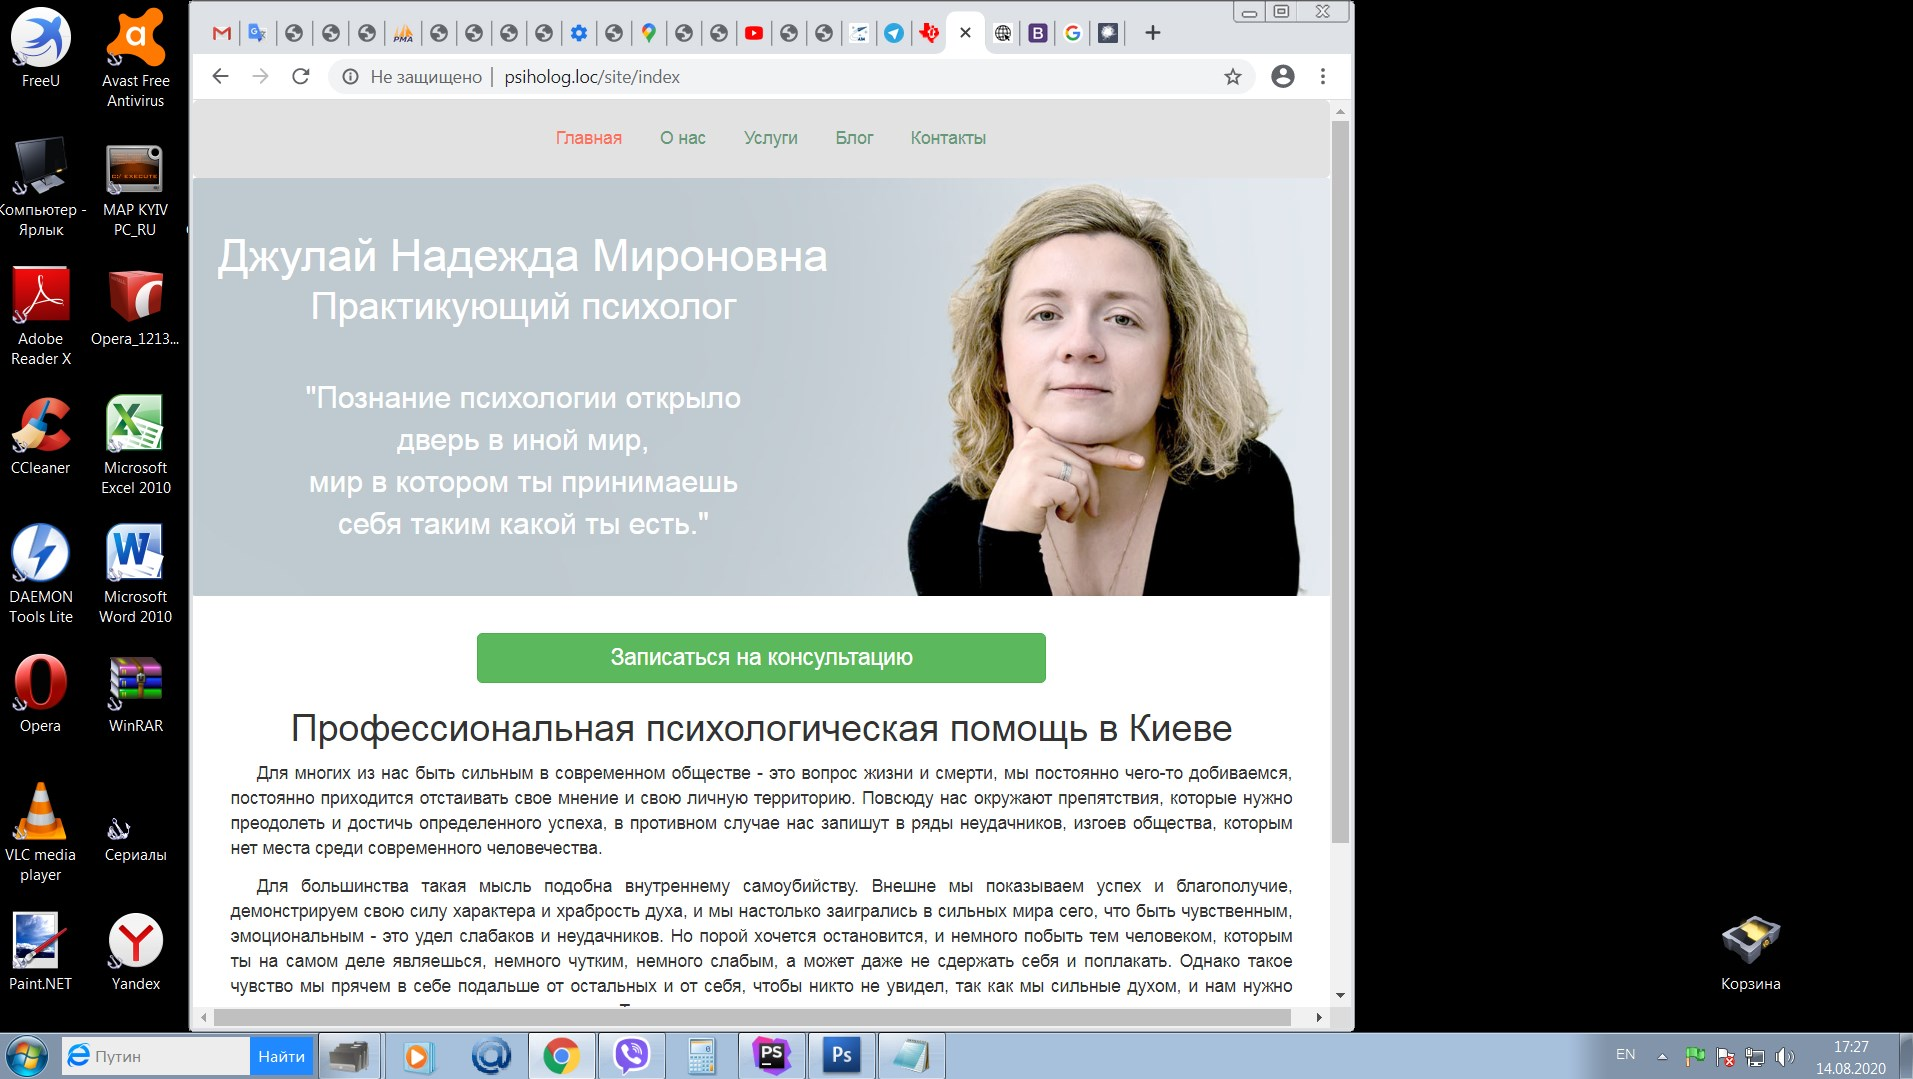
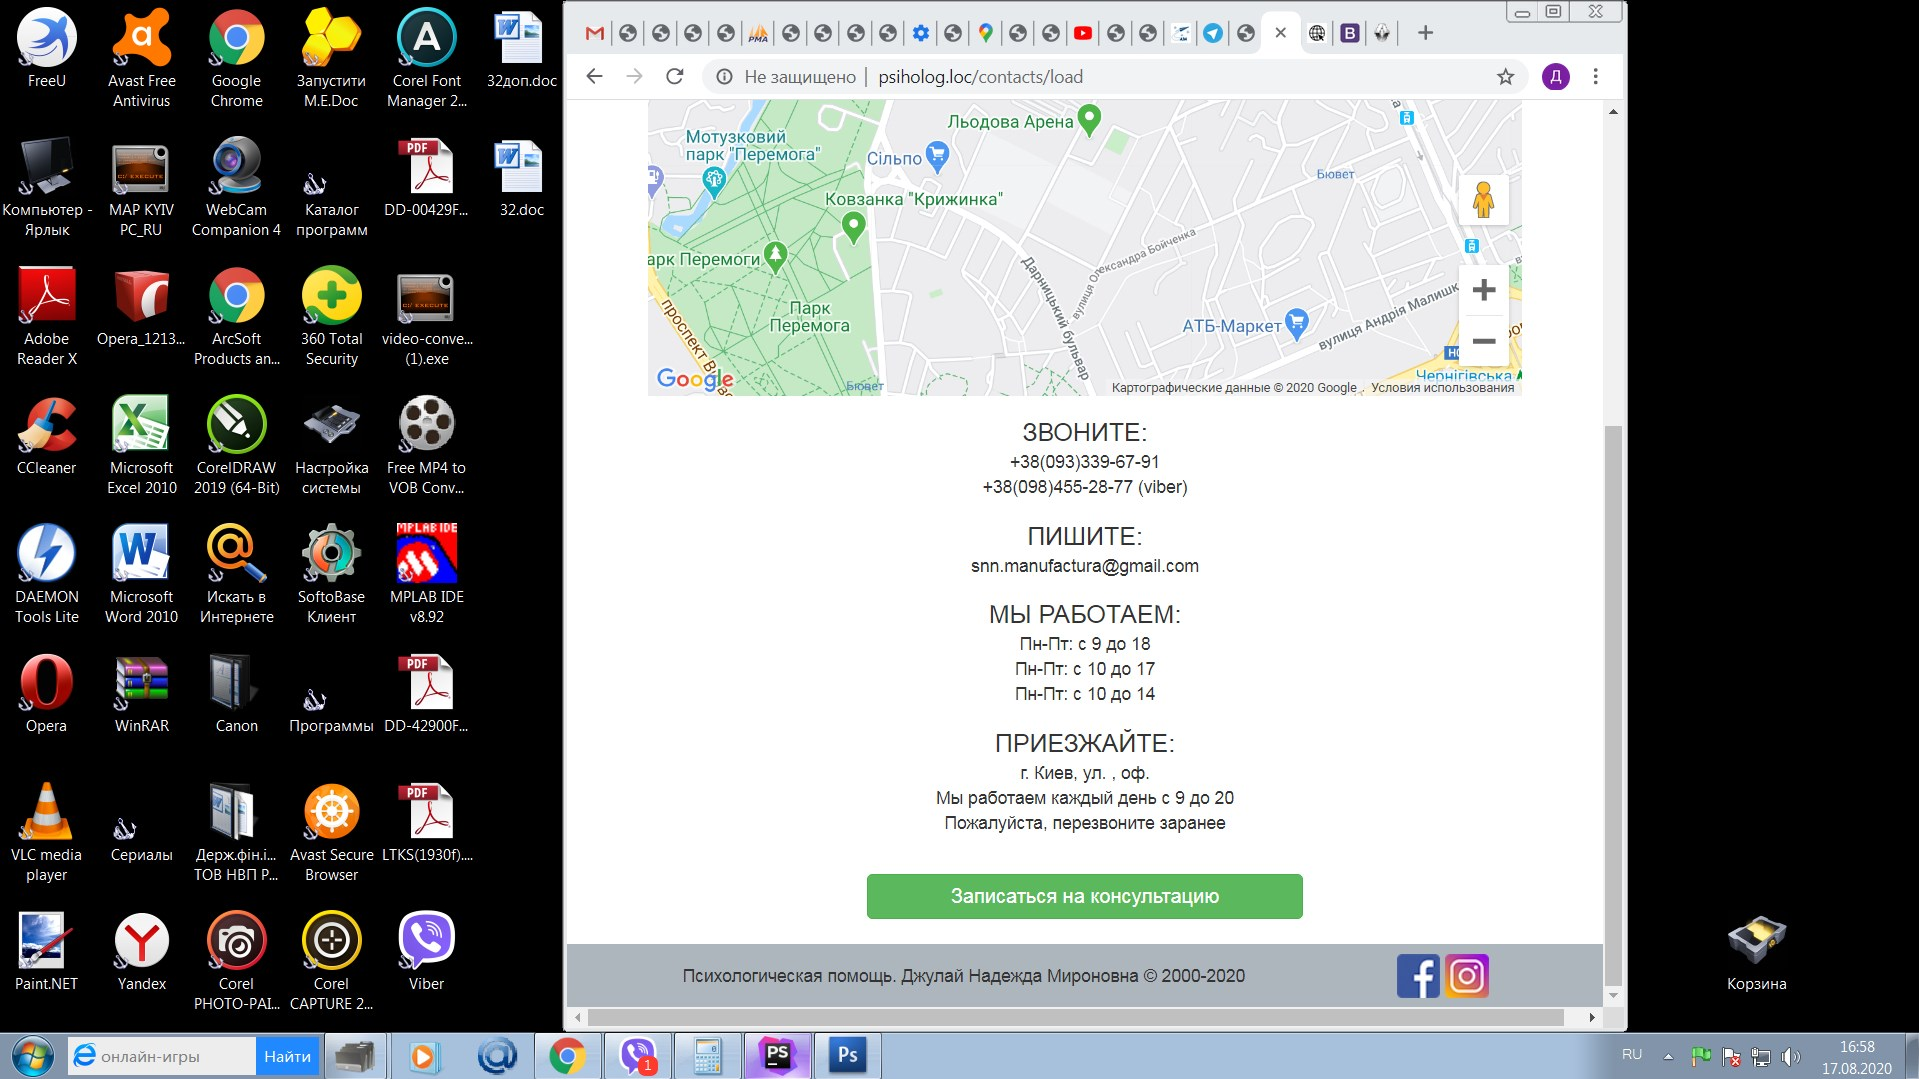
Begin make 'About->Detail' page.

diff --git a/web/css/contacts.css b/web/css/contacts.css
@@ -1,6 +1,6 @@
 body.contact {
     width: 100%;
-    height: 100%;
+    /*height: 100%;*/
     background-size: cover;
 }
 
@@ -16,6 +16,15 @@ body.contact {
     margin: 25px 0 5px 0;
 }
 
+.containerContacts{
+    margin-right: 50px;
+    margin-left: 50px;
+}
+
+.h1Contacts{
+    text-align: center;
+}
+
 .contactsInformation {
     text-align: center;
 }
@@ -25,7 +34,7 @@ p{
 }
 
 #map{
-    height: 400px;
+    height: 500px;
     width: 100%;
 }
 .weOnMap{
@@ -33,6 +42,13 @@ p{
     max-width: 100%;
 }
 
+.contactsBtn{
+    width: 100%;
+    display: flex;
+    justify-content: center;
+    margin: 30px auto 0;
+    font-size: large;
+}
 
 @media (max-width: 1200px) {
     .contactsHeading{
@@ -40,9 +56,20 @@ p{
     }
 }
 
+@media (max-width: 1100px) {
+    .contactsBtn{
+        font-size: medium;
+    }
+}
+
 
 @media (max-width: 992px) {
     .contactsHeading{
         margin: 15px 0 0 0;
+    }
+
+    .contactsBtn{
+        width: 50%;
+        margin-bottom: 20px;
     }
 }

diff --git a/web/css/detail.css b/web/css/detail.css
@@ -1,0 +1,13 @@
+
+.containerDetail{
+    margin-right: 50px;
+    margin-left: 50px;
+}
+
+.h2AboutDetail{
+    font-size: 30px;
+    color: #669978;
+    text-align: center;
+    margin-top: 0;
+    margin-bottom: 20px;
+}

diff --git a/web/css/site.css b/web/css/site.css
@@ -53,6 +53,10 @@ body{
     /*border-color: #d4d4d46b;*/
 }
 
+.myBreadcrumbs{
+    margin: 20px 20px 0!important;
+}
+
 h1{
     color: #669978!important;
 }

diff --git a/web/css/colleague.css b/web/css/colleague.css
@@ -13,7 +13,6 @@
     max-width: none!important;
 }
 
-
 .h2About{
     font-size: 30px;
     color: #669978;

diff --git a/views/Contacts/contacts.php b/views/Contacts/contacts.php
@@ -1,58 +1,66 @@
 <body class="contact">
 <?php
 /* @var $this yii\web\View */
+
+use yii\helpers\Html;
+
 /* @var $form yii\bootstrap\ActiveForm */
 /* @var $model app\models\ContactForm */
 ?>
 
-<h1>Контакты</h1>
+<div class="containerContacts">
 
-<div class="weOnMap col-12 col-md-9">
-    <div id="map"></div>
-</div>
-<script>
-    let setLatLng = {lat: 50.466282, lng: 30.615236};
+    <h1 class="h1Contacts">Контакты</h1>
 
-    function initMap() {
-        let map = new google.maps.Map(document.getElementById('map'), { // load map with zoom 15
-            center: setLatLng,
-            zoom: 15
-        });
-        let marker = new google.maps.Marker({                           // load marker
-            position: setLatLng,
-            map: map,
-            title: 'Дизайн-бюро "Мануфактура"',
-            label: {
-                text: "М",
-                fontWeight: 'bold',
-                fontSize: '18px',
-            },
-        });
-    }
-</script>
+    <div class="weOnMap col-12 col-md-9">
+        <div id="map"></div>
+    </div>
+    <script>
+        let setLatLng = {lat: 50.466282, lng: 30.615236};
 
-<!--<script src="https://maps.googleapis.com/maps/api/js?key=AIzaSyA5lk7r7SXnb01iASdBunyGA8wv8_1FW6k&callback=initMap">-->
-<!--        async defer>-->
-<!--</script>-->
+        function initMap() {
+            let map = new google.maps.Map(document.getElementById('map'), { // load map with zoom 15
+                center: setLatLng,
+                zoom: 15
+            });
+            let marker = new google.maps.Marker({                           // load marker
+                position: setLatLng,
+                map: map,
+                title: 'Дизайн-бюро "Мануфактура"',
+                label: {
+                    text: "Мы здесь",
+                    fontWeight: 'bold',
+                    fontSize: '18px',
+                },
+            });
+        }
+    </script>
 
-<script defer
-        src="https://maps.googleapis.com/maps/api/js?key=AIzaSyA5lk7r7SXnb01iASdBunyGA8wv8_1FW6k&callback=initMap">
-</script>
+    <script defer
+            src="https://maps.googleapis.com/maps/api/js?key=AIzaSyA5lk7r7SXnb01iASdBunyGA8wv8_1FW6k&callback=initMap">
+    </script>
 
-<div class="ourContacts col-12 col-md-3">
-    <p class="contactsHeading">ЗВОНИТЕ:</p>
-    <p class="contactsInformation">+38(097)927-25-84</p>
-    <p class="contactsInformation">+38(066)034-39-57 (viber)</p>
+    <div class="ourContacts col-12 col-md-3">
+        <p class="contactsHeading">ЗВОНИТЕ:</p>
+        <p class="contactsInformation">+38(093)339-67-91</p>
+        <p class="contactsInformation">+38(098)455-28-77 (viber)</p>
 
-    <p class="contactsHeading">ПИШИТЕ:</p>
-    <p class="contactsInformation">snn.manufactura@gmail.com</p>
+        <p class="contactsHeading">ПИШИТЕ:</p>
+        <p class="contactsInformation">snn.manufactura@gmail.com</p>
 
-    <p class="contactsHeading">ПРИЕЗЖАЙТЕ:</p>
-    <p class="contactsInformation">г. Киев, ул. Шалетт Города 1, оф. 208</p>
-    <p class="contactsInformation">Мы работаем каждый день с 9 до 20</p>
-    <p class="contactsInformation">Пожалуйста, перезвоните заранее</p>
+        <p class="contactsHeading">МЫ РАБОТАЕМ:</p>
+        <p class="contactsInformation">Пн-Пт: с 9 до 18</p>
+        <p class="contactsInformation">Пн-Пт: с 10 до 17</p>
+        <p class="contactsInformation">Пн-Пт: с 10 до 14</p>
 
-    <p class="contactsHeading">ВЫЕЗД ДИЗАЙНЕРА:</p>
-    <p class="contactsInformation">в любой район Киева и области</p>
+        <p class="contactsHeading">ПРИЕЗЖАЙТЕ:</p>
+        <p class="contactsInformation">г. Киев, ул. , оф. </p>
+        <p class="contactsInformation">Мы работаем каждый день с 9 до 20</p>
+        <p class="contactsInformation">Пожалуйста, перезвоните заранее</p>
+
+        <?php echo Html::a('Записаться на консультацию', ['/blog/display'], ['class'=>'contactsBtn btn btn-success']);
+        ?>
+
+    </div>
 
 </div>

diff --git a/views/About/detail.php b/views/About/detail.php
@@ -1,0 +1,61 @@
+<?php
+
+/* @var $this yii\web\View */
+/* @var $colleague array */
+/* @var $colleagues object */
+
+//$this->title = 'My Yii Application';
+?>
+
+<div class="containerDetail">
+
+<!--    <div class="jumbotron">-->
+<!--        <h1>About</h1>-->
+<!--    </div>-->
+<!---->
+<!--    <div class="body-content">-->
+
+
+    <?php $this->params['breadcrumbs'][] = [
+        'label'=> 'О нас',
+        'url'=> ['/about/index'],
+    ];
+    $this->params['breadcrumbs'][] = $colleague->specialization . ' ' . $colleague->name;
+
+    ?>
+
+    <h2 class="h2AboutDetail"><?php echo $colleague->name; ?></h2>
+
+<?php
+//echo '<pre>';
+//var_dump($colleague);
+//?>
+
+
+<!--    --><?php //$i = 0; ?>
+<!---->
+<!--    --><?php //foreach ($colleagues as $key=>$colleague):
+//        if ((((++$i) % 4) == 1)):                   //  output cards in 2 columns
+//            ?>
+<!--        <div class="row card-groupColleagues">-->
+<!--        --><?php //endif; ?>
+<!--            <div class="col-12 col-md-3 card">-->
+<!--                <img src="--><?php //echo $colleague->photo; ?><!--" class="card-img-top" alt="...">-->
+<!--                <div class="card-body">-->
+<!--                    <h5 class="card-title">--><?php //echo $colleague->name; ?><!--</h5>-->
+<!--                    <p class="card-text">--><?php //echo "Специализация: " . $colleague->specialization; ?><!--</p>-->
+<!--                    <p class="card-text">--><?php //echo "Методы: " . $colleague->methods; ?><!--</p>-->
+<!--                    --><?php //echo Html::a("Подробнее", ['/about/detail', 'value' => $colleague->id], ['class'=>'indexBtnAbout btn btn-outline-info']);
+//                    ?>
+<!--                </div>-->
+<!--            </div>-->
+<!--        --><?php //if ((($i % 4) == 0)): ?>
+<!--        </div>-->
+                                      <!-- close "row" (after each 2 columns) -->
+<!--    --><?php //endif; ?>
+<!--    --><?php //endforeach;
+//    if (($i % 4) != 0)     { echo  "</div>";    }   // it's necessary to close "row" by "/div" when "col" are odd
+//    ?>
+
+
+</div>

diff --git a/controllers/AboutController.php b/controllers/AboutController.php
@@ -2,11 +2,22 @@
 
 namespace app\controllers;
 
+use Yii;
 use yii\web\Controller;
 use app\services\ColleaguesServices;
 
+
 class AboutController extends Controller
 {
+
+    private $colleagueServices;
+
+    public function __construct($id, $module, $config = [])
+    {
+        $this->colleagueServices = new ColleaguesServices();
+        parent::__construct($id, $module, $config);
+    }
+
     /**
      * Displays "About" page.
      *
@@ -15,10 +26,20 @@ class AboutController extends Controller
 
     public function actionIndex()
     {
-        $colleagues = ColleaguesServices::getColleagues();
+        $colleagues = $this->colleagueServices->getColleagues();
 
         return $this->render('colleagues', [
             'colleagues' => $colleagues
+        ]);
+    }
+
+    public function actionDetail()
+    {
+        $colleagueID = Yii::$app->request->get('colleagueID');
+        $colleague = ColleaguesServices::getColleague($colleagueID);
+
+        return $this->render('detail', [
+            'colleague' => $colleague
         ]);
     }
  }

diff --git a/views/About/colleagues.php b/views/About/colleagues.php
@@ -63,7 +63,7 @@ use yii\helpers\Html;
                     <h5 class="card-title"><?php echo $colleague->name; ?></h5>
                     <p class="card-text"><?php echo "Специализация: " . $colleague->specialization; ?></p>
                     <p class="card-text"><?php echo "Методы: " . $colleague->methods; ?></p>
-                    <?php echo Html::a("Подробнее", ['#', 'value' => $colleague->id], ['class'=>'indexBtnAbout btn btn-outline-info']);
+                    <?php echo Html::a("Подробнее", ['/about/detail', 'colleagueID' => $colleague->id], ['class'=>'indexBtnAbout btn btn-outline-info']);
                     ?>
                 </div>
             </div>

diff --git a/views/layouts/main.php b/views/layouts/main.php
@@ -87,10 +87,13 @@ AppAsset::register($this);
         ?>
 
         <div class="container">
-            <?= Breadcrumbs::widget([
-                'links' => isset($this->params['breadcrumbs']) ? $this->params['breadcrumbs'] : [],
-            ]) ?>
-            <?= Alert::widget() ?>
+            <div class="myBreadcrumbs">
+                <?= Breadcrumbs::widget([
+                    'links' => isset($this->params['breadcrumbs']) ? $this->params['breadcrumbs'] : [],
+                    'homeLink' => false,        // delete "Home" link in breadcrumbs
+                ]) ?>
+                <?= Alert::widget() ?>
+            </div>
             <?= $content ?>
         </div>
     </div>

diff --git a/views/site/index.php b/views/site/index.php
@@ -28,7 +28,7 @@ use yii\helpers\Html; ?>
             <div class="row">
                 <div class="col-7">
                     <h1 class="card-titleH1">Джулай Надежда Мироновна</h1>
-                    <h2 class="card-titleH2">Практикующий психолог</h2>
+                    <h2 class="card-titleH2">Психиатр, психотерапевт</h2>
                     <div class="siteSlogan">
                         "Познание психологии открыло<br>
                         дверь в иной мир,<br>

diff --git a/models/Colleagues.php b/models/Colleagues.php
@@ -10,4 +10,10 @@ class Colleagues extends ActiveRecord
     {
         return Colleagues::find()->all();
     }
+
+    public static function findColleague($colleagueID)
+    {
+//        return Colleagues::find()->all();
+        return Colleagues::find()->where(['id' => $colleagueID])->one();
+    }
 }

diff --git a/services/ColleaguesServices.php b/services/ColleaguesServices.php
@@ -15,4 +15,9 @@ class ColleaguesServices
     {
         return Colleagues::findColleagues();
     }
+
+    public static function getColleague ($colleagueID)
+    {
+        return Colleagues::findColleague($colleagueID);
+    }
 }
